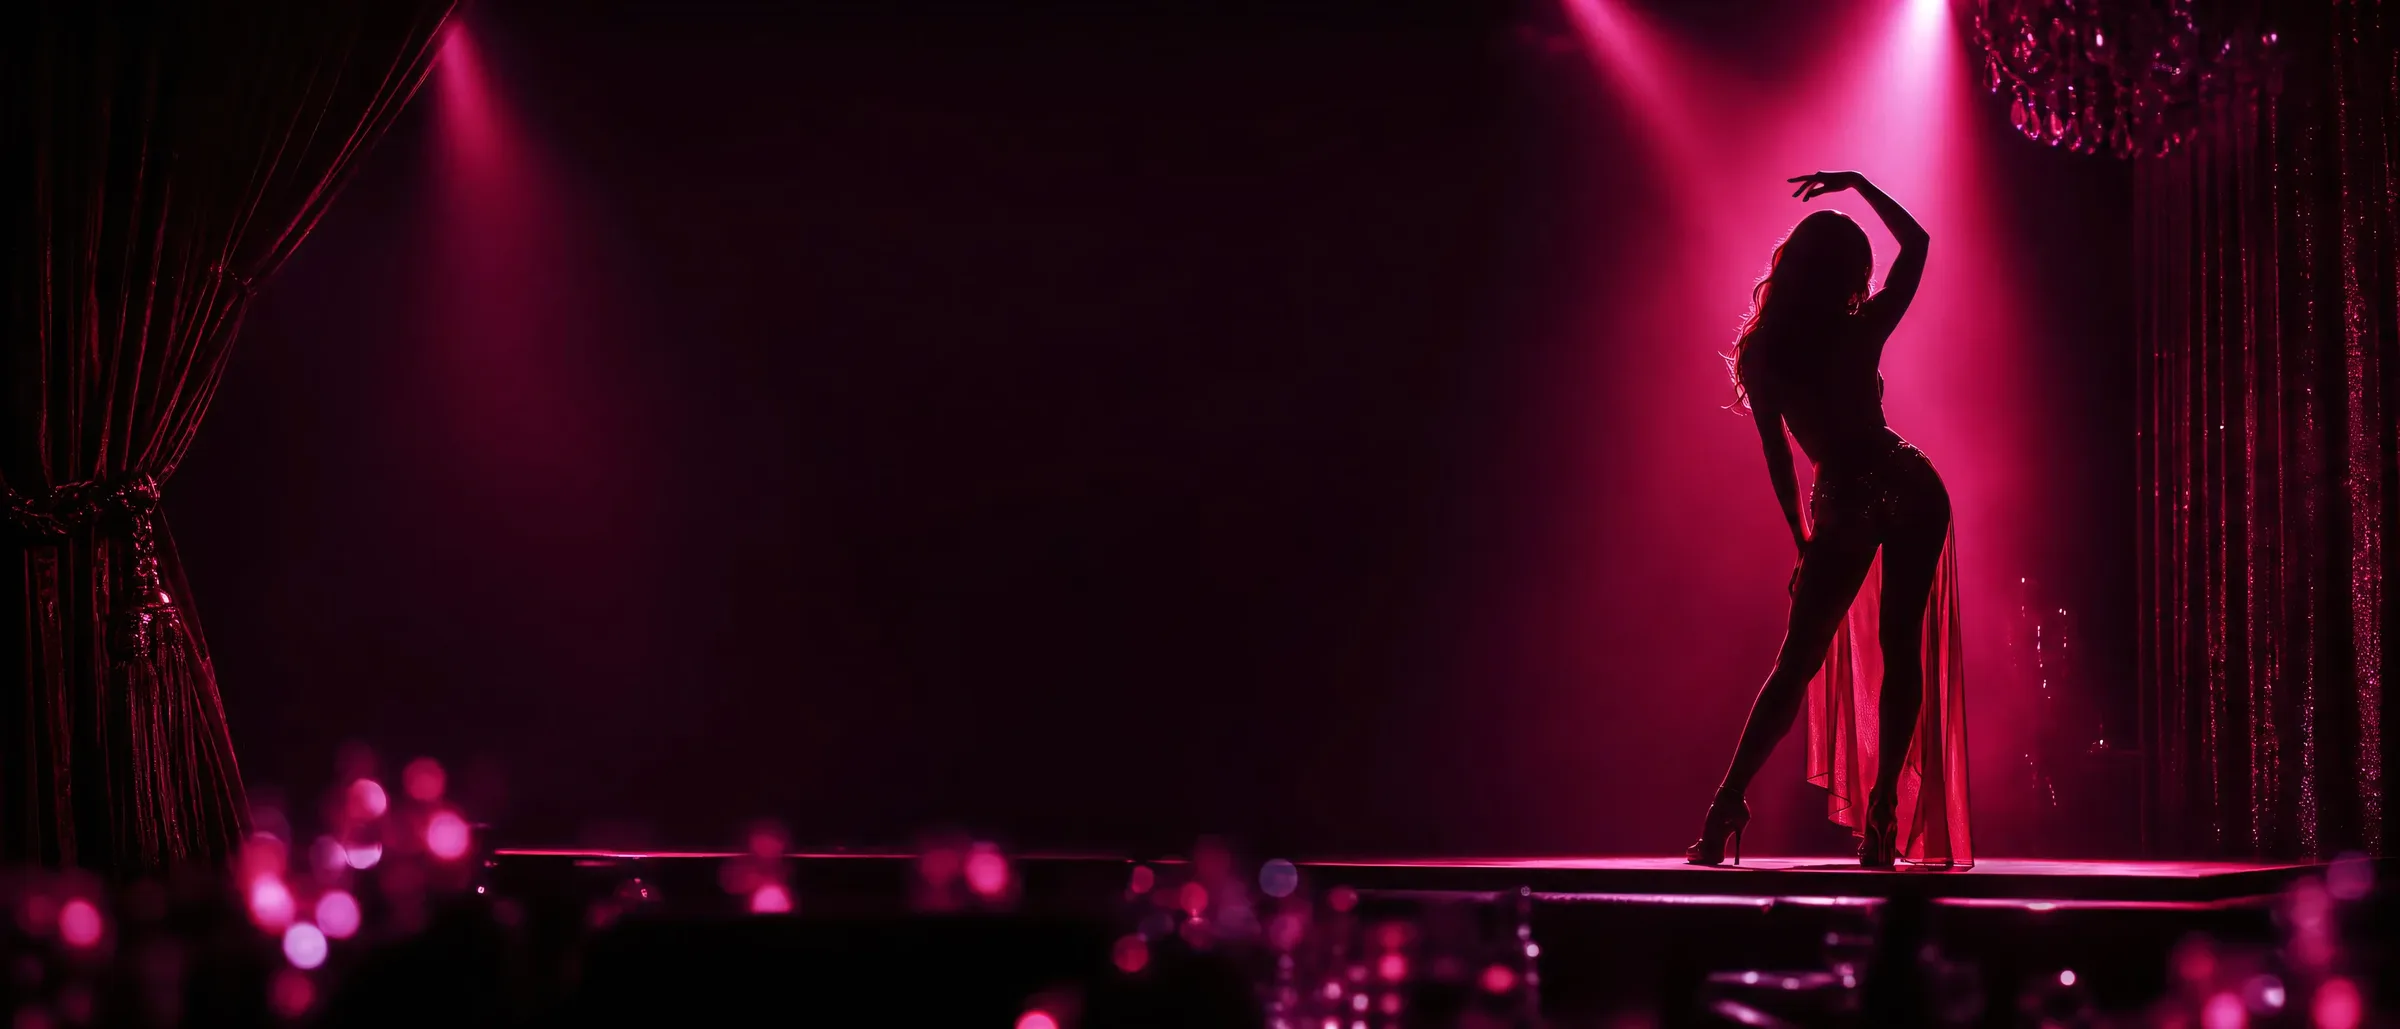
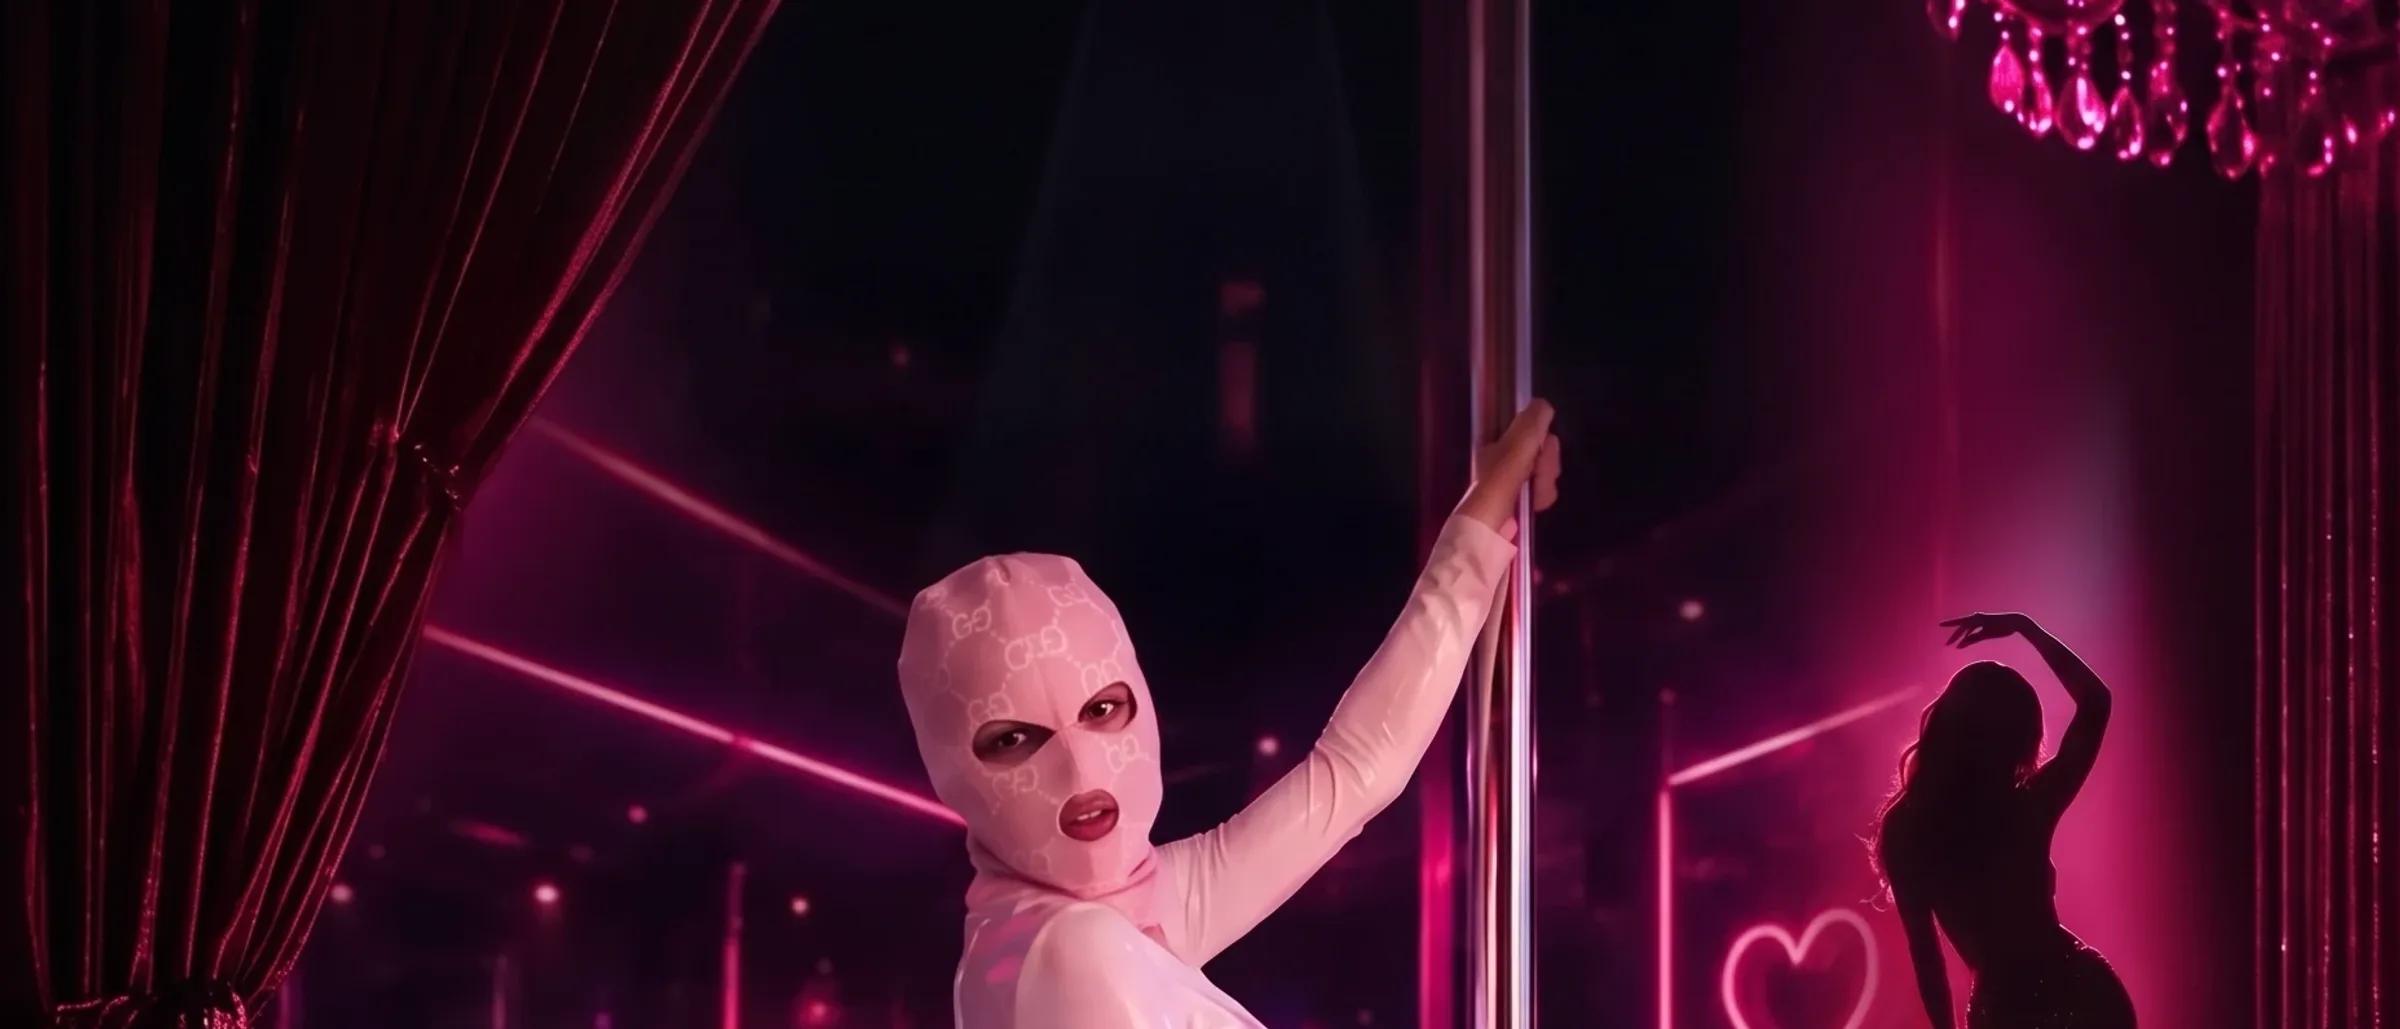
Byt hero-bild till Fröken Snusk-motivet
Ny hero.webp: liggande utsnitt ur Hero2.png (Fröken Snusk vid stången,
dansös-siluett till höger). Fokus flyttat åt vänster (object-position
30–35%) så den centrerade rubriken landar på mörk yta ovanför/bredvid
henne i stället för på ansiktet. Gradienterna balanserade om (tyngst i
mitten/botten) så texten håller kontrast utan att dränka bilden.

Källfilen Hero2.png hålls utanför git; bara optimerad webp checkas in.

diff --git a/src/app/(site)/page.tsx b/src/app/(site)/page.tsx
@@ -19,10 +19,10 @@ export default async function HomePage() {
       {/* ── HERO med nedräknare + biljettknapp ─────────────────────── */}
       <section className="mesh-forest grain relative overflow-hidden text-cream">
         {/* Hero-bild: fade-in + slow zoom vid laddning, mjuk parallax vid scroll.
-            Motivet (dansösen) ligger i bildens högra fjärdedel. Vi fokuserar
-            därför åt höger på ALLA skärmar (object-right) så hon alltid syns
-            stor och tydlig – inte "inkastad" mot en tom mittyta. Den centrerade
-            texten balanserar mot den mörkare vänsterhalvan. */}
+            Motivet (Fröken Snusk vid stången) ligger något vänster om mitten,
+            dansös-siluetten till höger. Vi fokuserar åt vänster (object-left)
+            så henne + siluetten hålls i bild och den centrerade rubriken landar
+            på den mörkare mittytan bakom/bredvid henne, inte på ansiktet. */}
         <div className="hero-parallax absolute inset-x-0 -top-[18%] bottom-0" aria-hidden="true">
           <Image
             src="/images/hero.webp"
@@ -30,13 +30,14 @@ export default async function HomePage() {
             fill
             priority
             sizes="100vw"
-            className="hero-zoom object-cover object-[88%_center] sm:object-right"
+            className="hero-zoom object-cover object-[30%_center] sm:object-[35%_center]"
           />
         </div>
-        {/* Mörk gradient: tyngre i vänsterkant + botten så rubrik/knappar håller
-            kontrast, medan dansösen i högerkanten lämnas ljusare och syns. */}
-        <div className="absolute inset-0 bg-gradient-to-r from-ink/85 via-ink/55 to-ink/25" aria-hidden="true" />
-        <div className="absolute inset-0 bg-gradient-to-b from-ink/50 via-ink/20 to-ink/85" aria-hidden="true" />
+        {/* Mörk gradient: tyngst i mitten/botten så rubrik + knappar håller
+            kontrast ovanpå bilden, medan Fröken Snusk (vänster) och siluetten
+            (höger) lämnas ljusare i kanterna. */}
+        <div className="absolute inset-0 bg-gradient-to-r from-ink/70 via-ink/60 to-ink/45" aria-hidden="true" />
+        <div className="absolute inset-0 bg-gradient-to-b from-ink/45 via-ink/25 to-ink/85" aria-hidden="true" />
 
         {/* Fröken Snusk – dragplåstret på heroens mörka vänsterhalva (Johans
             önskemål). Endast neontext (bilden borttagen på önskemål),
